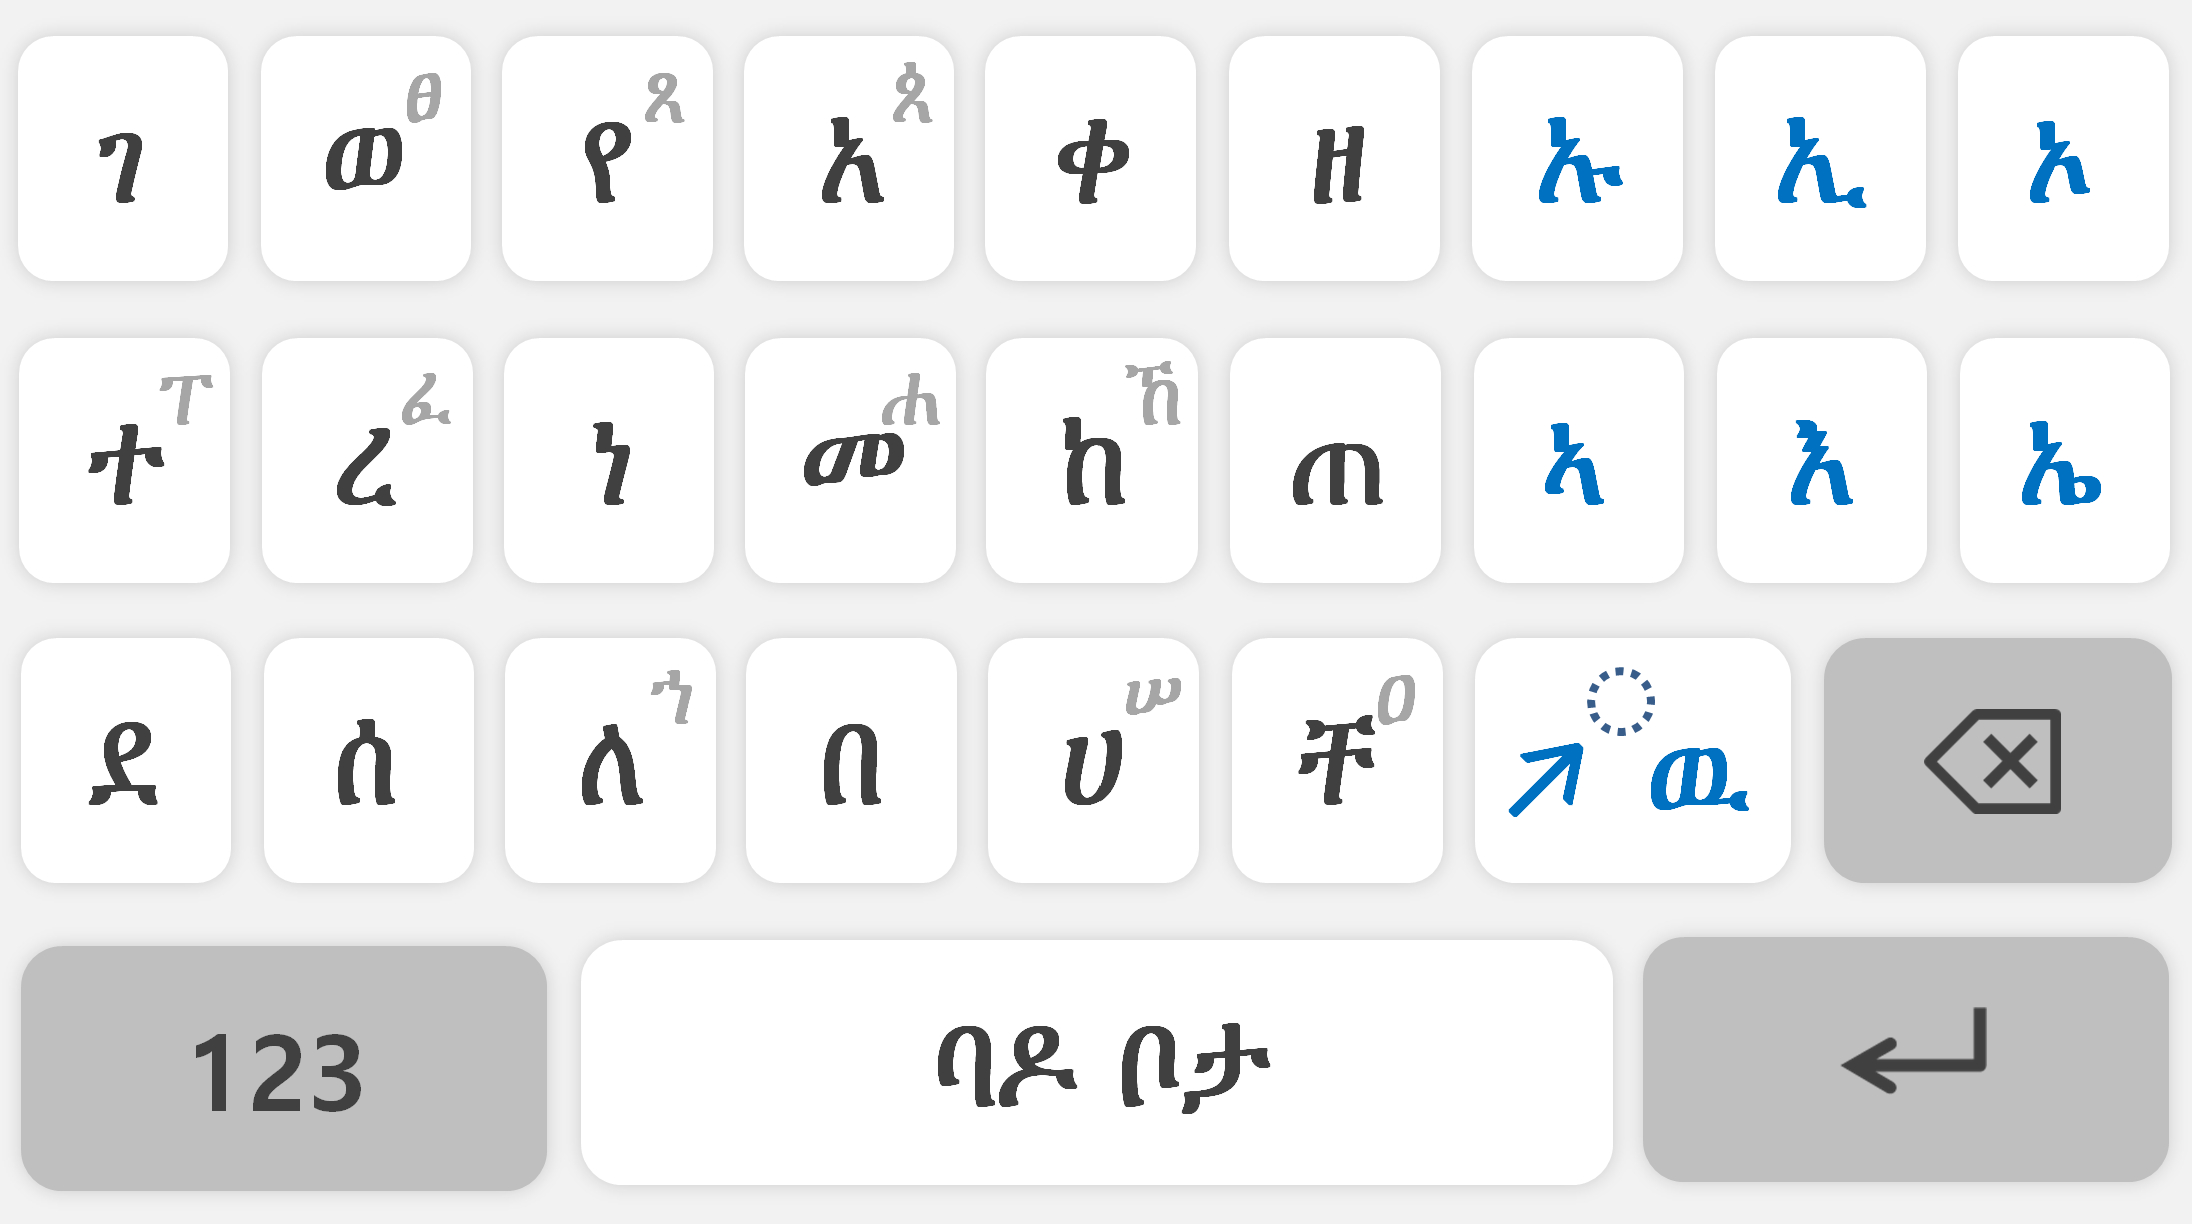
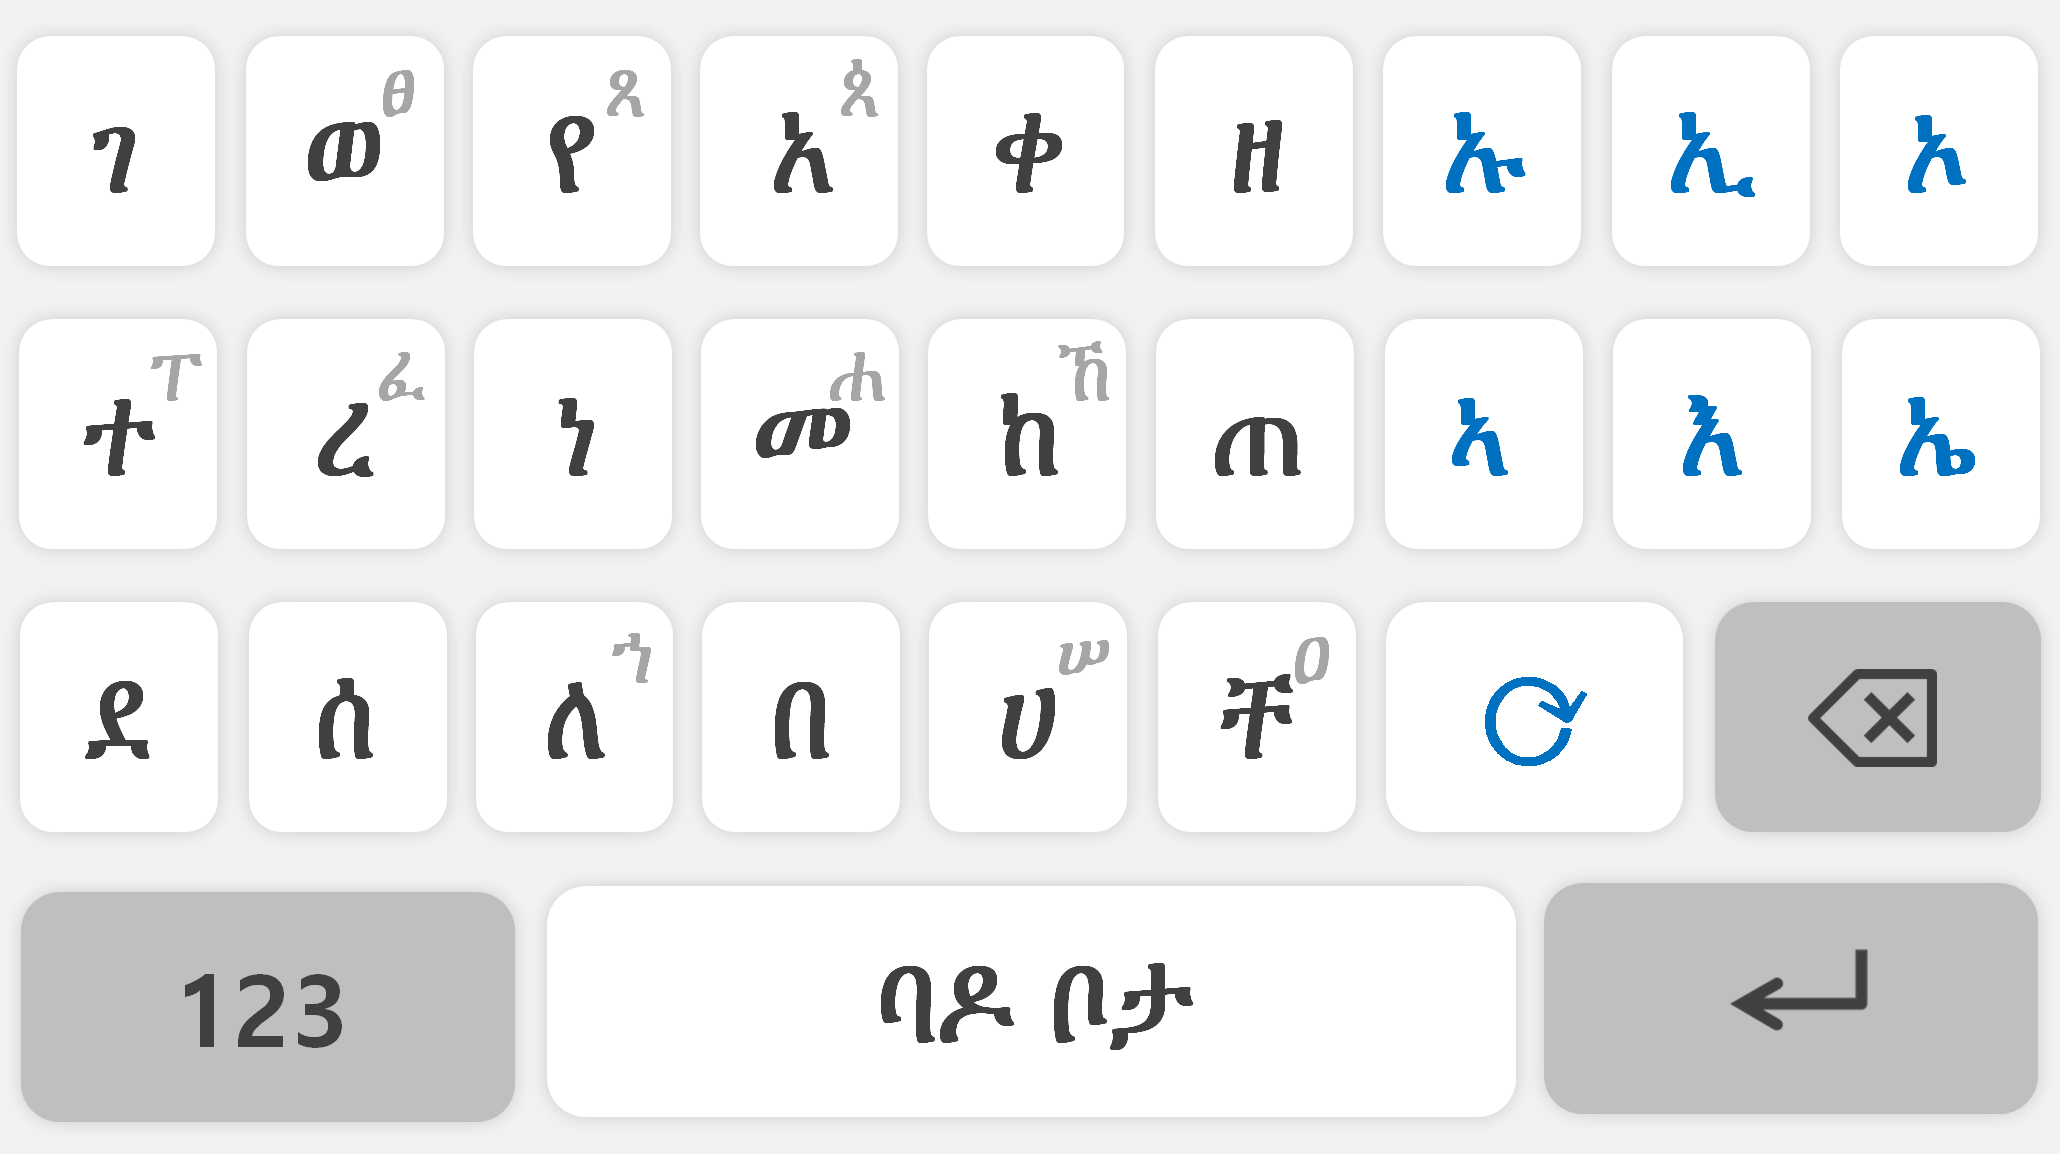
Add files via upload

diff --git a/teranama.html b/teranama.html
@@ -108,6 +108,19 @@ window.addEventListener('resize', fit);
       transform:translate(-50%,-50%);
       pointer-events:none;
     }
+	#preview-NEXT.default::after {
+  content: none !important;
+  border: none !important;
+  width: 0 !important;
+  height: 0 !important;
+}
+#preview-NEXT {
+  font-size: 22px;
+  text-shadow: 0.5px 0 currentColor, -0.5px 0 currentColor,
+               0 0.5px currentColor, 0 -0.5px currentColor;
+}
+
+
   </style>
 </head>
 <body>
@@ -423,10 +436,10 @@ const kb = document.getElementById('bgwrap');
 const keyPos = {
   // 1행
   KeyQ:{x:309,y:474}, KeyW:{x:356,y:474}, KeyE:{x:402,y:474}, KeyR:{x:448,y:474},
-  KeyT:{x:495,y:474}, KeyY:{x:561,y:474}, KeyU:{x:607,y:474}, KeyI:{x:653,y:474}, KeyO:{x:700,y:474},
+  KeyT:{x:495,y:474}, KeyY:{x:562,y:474}, KeyU:{x:608,y:474}, KeyI:{x:654,y:474}, KeyO:{x:701,y:474},
   // 2행
   KeyA:{x:320,y:512}, KeyS:{x:367,y:512}, KeyD:{x:413,y:512}, KeyF:{x:460,y:512},
-  KeyG:{x:506,y:512}, KeyH:{x:573,y:512}, KeyJ:{x:619,y:512}, KeyK:{x:666,y:512}, KeyL:{x:712,y:512},
+  KeyG:{x:506,y:512}, KeyH:{x:573,y:512}, KeyJ:{x:619,y:512}, KeyK:{x:666,y:512}, KeyL:{x:713,y:512},
   // 3행
   KeyZ:{x:345,y:549}, KeyX:{x:392,y:549}, KeyC:{x:438,y:549}, KeyV:{x:484,y:549},
   KeyB:{x:530,y:549}, KeyN:{x:597,y:549}, KeyM:{x:644,y:549},
@@ -457,7 +470,7 @@ window.addEventListener('keydown', e=>{
       font-family:"Abyssinica SIL","Noto Sans Ethiopic",system-ui,-apple-system,Arial,sans-serif !important;
       font-weight:400 !important;
     }
-    #preview-NEXT{ position:absolute; transform:translate(-50%,-40%) !important; font-size:22px !important; }
+    #preview-NEXT{ position:absolute; transform:translate(-40%,-45%) !important; font-size:22px !important; font-weight:700;}
     #preview-NEXT.default::after{
       content:''; position:absolute;
       width:12px; height:12px; border-radius:50%;
@@ -474,7 +487,7 @@ window.addEventListener('keydown', e=>{
     KeyJ:{x:618,y:512}, KeyK:{x:665,y:512}, KeyL:{x:711,y:512},
     KeyM:{x:643,y:549}
   };
-  const defaults={KeyU:'ኡ',KeyI:'ኢ',KeyO:'ኦ',KeyJ:'ኣ',KeyK:'እ',KeyL:'ኤ',KeyM:'⬈'};
+  const defaults={KeyU:'ኡ',KeyI:'ኢ',KeyO:'ኦ',KeyJ:'ኣ',KeyK:'እ',KeyL:'ኤ',KeyM:'⟳'};
   const idMap={KeyU:'preview-U',KeyI:'preview-I',KeyO:'preview-O',KeyJ:'preview-J',KeyK:'preview-K',KeyL:'preview-L',KeyM:'preview-NEXT'};
   const container=document.getElementById('previewLabels');
   for(const code in keyPos){
@@ -520,7 +533,7 @@ window.addEventListener('keydown', e=>{
     setLabel('preview-J','ኣ','#999');
     setLabel('preview-K','እ','#999');
     setLabel('preview-L','ኤ','#999');
-    setLabel('preview-NEXT','⬈','#999',{defaultState:true});
+    setLabel('preview-NEXT','⟳','#999',{defaultState:true});
   }
   function updatePrev(){
     const last=lastEth();
@@ -531,7 +544,7 @@ window.addEventListener('keydown', e=>{
     setLabel('preview-J',vowelPreview(last,'J'),'#1a73e8');
     setLabel('preview-L',vowelPreview(last,'L'),'#1a73e8');
     setLabel('preview-K',kPreview(last),'#1a73e8');
-    setLabel('preview-NEXT',nextOf(last)||'⬈','#1a73e8',{defaultState:false});
+    setLabel('preview-NEXT',nextOf(last)||'⟳','#1a73e8',{defaultState:false});
   }
 
   window.__updatePrev=updatePrev;
@@ -617,10 +630,10 @@ window.addEventListener('keydown', e=>{
       function kPreview(ch){ const cp=ch.codePointAt(0); const base=baseOf(cp); return String.fromCodePoint(base+5); }
       function expandPreview(ch){
         const cp=ch.codePointAt(0), base=baseOf(cp), order=cp-base;
-        if(order!==0) return '⬈';
+        if(order!==0) return '⟳';
         const baseChar=String.fromCodePoint(base);
         const baseCharRoot=(window.wSeriesRev&&wSeriesRev.get(baseChar))||baseChar;
-        const group=baseToGroup.get(baseCharRoot); if(!group||group.length<2) return '⬈';
+        const group=baseToGroup.get(baseCharRoot); if(!group||group.length<2) return '⟳';
         const baseRoot=group[0], subRoot=group[1];
         const stages=[ subRoot.codePointAt(0), wOf(baseRoot).codePointAt(0), wOf(subRoot).codePointAt(0) ];
         const idx=stages.indexOf(cp);
@@ -648,7 +661,7 @@ window.addEventListener('keydown', e=>{
             setLabel('preview-J','ኣ','#999');
             setLabel('preview-L','ኤ','#999');
             setLabel('preview-K','እ','#999');
-            setLabel('preview-NEXT','⬈','#999',{defaultState:true});
+            setLabel('preview-NEXT','⟳','#999',{defaultState:true});
           }else{
             // reuse vowelPreview from original if present; else approximate via base+index
             const baseOf=cp=>cp-(cp%8);
@@ -660,7 +673,7 @@ window.addEventListener('keydown', e=>{
             setLabel('preview-J',vowelIdx(lastEth,3),'#1a73e8');
             setLabel('preview-L',vowelIdx(lastEth,4),'#1a73e8');
             setLabel('preview-K',vowel5(lastEth),'#1a73e8');
-            setLabel('preview-NEXT',expandPreview(lastEth)||'⬈','#1a73e8',{defaultState:false});
+            setLabel('preview-NEXT',expandPreview(lastEth)||'⟳','#1a73e8',{defaultState:false});
           }
         }catch(e){
           _orig_updatePrev();
@@ -917,7 +930,7 @@ window.addEventListener('keydown', e=>{
 </script>
 
 
-<!-- === NEXT preview final rule: default '⬈ዉ' gray; active shows next cycle; vowels -> inactive === -->
+<!-- === NEXT preview final rule: default '⟳' gray; active shows next cycle; vowels -> inactive === -->
 <script>
 (function(){
   try{
@@ -974,13 +987,13 @@ window.addEventListener('keydown', e=>{
 
     function setNextInactive(){
       const el = document.getElementById('preview-NEXT'); if(!el) return;
-      el.textContent = '⬈ዉ';
+      el.textContent = '⟳';
       el.style.color = '#999';
       el.classList.add('default');
     }
     function setNextActive(char){
       const el = document.getElementById('preview-NEXT'); if(!el) return;
-      el.textContent = char || '⬈';
+      el.textContent = char || '⟳';
       el.style.color = '#1a73e8';
       el.classList.remove('default');
     }

diff --git a/mobile_demo.html b/mobile_demo.html
@@ -112,14 +112,14 @@
   position: absolute;
   top: 1%;
   right: 35%;
-  font-size: 28px;
+  font-size: 1px;
   font-weight: 1200;
   color: #000;
   pointer-events: none;
   display: block;   /* 기본 상태에서 보이게 */
 }
 
-.key[data-role="next"] .lbl { --next-x: -65%; }
+.key[data-role="next"] .lbl { --next-x: -15%; }
 </style>
 
 </head>
@@ -133,7 +133,7 @@
       </div>
       <div style="padding:14px 16px;font-size:14px;line-height:1.6">
         <ul style="margin:0;padding-left:18px">
-          <li>በአንድ ቁልፍ ላይ ያሉትን የኋላ ፊደሎች ለመጻፍ መጀመሪያ ያንን ቁልፍ ከዚያም የቀጣዩን መስፋፊያ (⬈) ይጫኑ።</li>
+          <li>በአንድ ቁልፍ ላይ ያሉትን የኋላ ፊደሎች ለመጻፍ መጀመሪያ ያንን ቁልፍ ከዚያም የቀጣዩን መስፋፊያ (⟳) ይጫኑ።</li>
           <li>መስፋፊያውን በተከታታይ ሁለት ጊዜ ካስጫኑ ዉ ይጻፋል።</li>
           <li>ግራጫ ቀለም ያላቸው የሞል ቁልፎች ብቻቸውን አይገቡም። መጀመሪያ ሥር ያለውን አ (አ) ይጫኑ።</li>
         </ul>
@@ -179,7 +179,7 @@
       <button class="key noLabel"><span class="lbl">ሀሠ</span></button>
       <button class="key noLabel"><span class="lbl">ቸዐ</span></button>
       <div class="doubleSlot">
-        <button class="key vowel ghost" data-role="next"><span class="lbl"></span><span class="w-hint">ዉ</span><span class="hint-circle">◌</span></button>		
+        <button class="key vowel ghost" data-role="next"><span class="lbl"></span><span class="w-hint"></span><span class="hint-circle">◌</span></button>		
         <button class="key ghost" data-role="backspace"><span class="lbl"></span></button>
       </div>
     </div>
@@ -454,12 +454,12 @@ kb.addEventListener('click',(e)=>{
     if (!el) return;
     defaults[sel] = el.textContent || fallback || '';
   }
-  cacheDefault('[data-role="next"] .lbl', '⬈');
+  cacheDefault('[data-role="next"] .lbl', '⟳');
   cacheDefault('[data-role="k"] .lbl', 'K');
   ['U','I','O','J','L'].forEach(ch => cacheDefault(`[data-vowel="${ch}"] .lbl`, ch));
 
   function resetPreviewsToDefault(){
-    setText('[data-role="next"] .lbl', '⬈'); setColor('[data-role="next"] .lbl', '#999');
+    setText('[data-role="next"] .lbl', '⟳'); setColor('[data-role="next"] .lbl', '#999');
     setText('[data-role="k"] .lbl', defaults['[data-role="k"] .lbl'] || 'K'); setColor('[data-role="k"] .lbl', '#999');
     ['U','I','O','J','L'].forEach(k => { setText(`[data-vowel="${k}"] .lbl`, defaults[`[data-vowel="${k}"] .lbl`] || k); setColor(`[data-vowel="${k}"] .lbl`, '#999'); });
     const h = kb.querySelector('[data-role="next"] .hint-circle'); if (h) h.style.display = 'block';
@@ -487,7 +487,7 @@ function updatePreviews(){
   const endsWS = /\s$/.test(t);
 
   const targets = {
-    next: { text: "⬈", color: "#999", hint: true },
+    next: { text: "⟳", color: "#999", hint: true },
     K: { text: "K", color: "#999" },
     U: { text: "U", color: "#999" },
     I: { text: "I", color: "#999" },
@@ -543,7 +543,7 @@ function updatePreviews(){
         const next=anchors[(idx+1)%anchors.length];
         targets.next = { text: String.fromCodePoint(next), color: "#1a73e8", hint: false };
       } else {
-        targets.next = { text: "⬈", color: "#999", hint: true };
+        targets.next = { text: "⟳", color: "#999", hint: true };
       }
     }
   })();
@@ -586,7 +586,7 @@ function updatePreviews(){
       setText('[data-role="next"] .lbl', next); setColor('[data-role="next"] .lbl', '#1a73e8');
       const h = kb.querySelector('[data-role="next"] .hint-circle'); if (h) h.style.display = 'none';
     }else{
-      setText('[data-role="next"] .lbl', '⬈'); setColor('[data-role="next"] .lbl', '#999');
+      setText('[data-role="next"] .lbl', '⟳'); setColor('[data-role="next"] .lbl', '#999');
       const h = kb.querySelector('[data-role="next"] .hint-circle'); if (h) h.style.display = 'block';
     }
 
@@ -664,7 +664,7 @@ function updatePreviews(){
 
   // Cache initial DOM labels (Ethiopic glyphs) for idle defaults
   const defaults = {
-    next: (kb.querySelector('[data-role="next"] .lbl') || {textContent:"⬈"}).textContent || "⬈",
+    next: (kb.querySelector('[data-role="next"] .lbl') || {textContent:"⟳"}).textContent || "⟳",
     K:    (kb.querySelector('[data-role="k"] .lbl')    || {textContent:"K"}).textContent || "እ",
     U:    (kb.querySelector('[data-vowel="U"] .lbl')   || {textContent:"U"}).textContent || "U",
     I:    (kb.querySelector('[data-vowel="I"] .lbl')   || {textContent:"I"}).textContent || "I",
@@ -695,7 +695,7 @@ function updatePreviews(){
 
     // defaults (gray)
     const targets = {
-      next: { text: "⬈", color: "#999", hint: true },
+      next: { text: "⟳", color: "#999", hint: true },
       K: { text: "K", color: "#999" },
       U: { text: "U", color: "#999" },
       I: { text: "I", color: "#999" },
@@ -737,7 +737,7 @@ function updatePreviews(){
           const next = anchors[(anchors.indexOf(cp)+1)%anchors.length];
           targets.next = { text: String.fromCodePoint(next), color: "#1a73e8", hint: false };
         } else {
-          targets.next = { text: "⬈", color: "#999", hint: true };
+          targets.next = { text: "⟳", color: "#999", hint: true };
         }
       }
     })();
